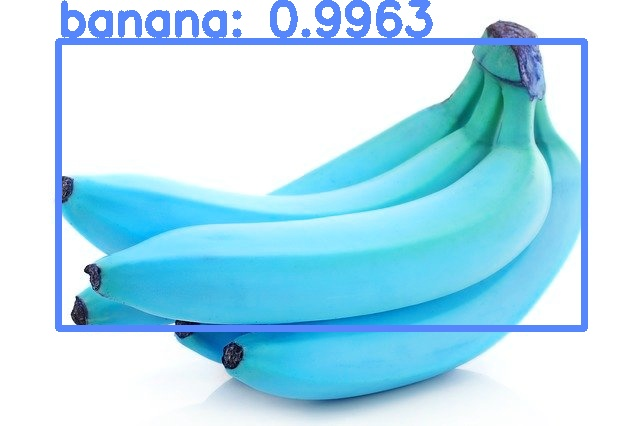
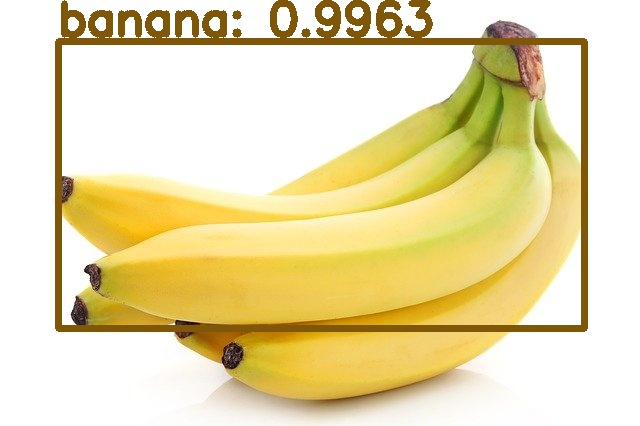
fix color error

diff --git a/templates/predict.html b/templates/predict.html
@@ -90,6 +90,7 @@
       <div class="col-sm">
         <span class="border border-primary">
           <img src="{{ url_for('static', filename = user_image)}}" alt="User Image" width="500" height="600" class="img-thumbnail">
+          <!-- <img src="./static/images/ouput/{{user_image}}" alt="User Image" width="500" height="600" class="img-thumbnail"> -->
         </span>
       </div>
 

diff --git a/app.py b/app.py
@@ -114,7 +114,7 @@ def predict():
                 print('YOLO v3 took {:.5f} seconds'.format(end - start))
                 np.random.seed(42)
                 # randint(low, high=None, size=None, dtype='l')
-                colours = np.random.randint(0, 255, size=(len(labels), 3), dtype='uint8')
+                colors = np.random.randint(0, 255, size=(len(labels), 3))
                 
                 # Check point
                 
@@ -163,7 +163,7 @@ def predict():
                         x_min, y_min = bounding_boxes[i][0], bounding_boxes[i][1]
                         box_width, box_height = bounding_boxes[i][2], bounding_boxes[i][3]
                 
-                        colour_box_current = [int(j) for j in colours[class_numbers[i]]]
+                        colour_box_current = [int(j) for j in colors[class_numbers[i]]]
                 
                         cv2.rectangle(image_input, (x_min, y_min), (x_min + box_width, y_min + box_height),
                                         colour_box_current, 5)
@@ -173,15 +173,16 @@ def predict():
                 
                         cv2.putText(image_input, text_box_current, (x_min, y_min - 7), cv2.FONT_HERSHEY_SIMPLEX,
                                     1.5, colour_box_current, 5)
-                plt.rcParams['figure.figsize'] = (10.0, 10.0)
-                image_output = cv2.cvtColor(image_input, cv2.COLOR_BGR2RGB)
-                # plt.imshow(cv2.cvtColor(image_input, cv2.COLOR_BGR2RGB))       
-                cv2.imwrite('./static/images/output/' + filename , image_output)
+                # plt.rcParams['figure.figsize'] = (10.0, 10.0)
+                # image_output = cv2.cvtColor(image_input, cv2.COLOR_BGR2RGB)
+                # cv2.imshow(image_output)     
+                cv2.imwrite('./static/images/output/' + filename , image_input)
                 # plt.show()
                 #plt.savefig('static/images/plot.jpg')
                 
                 
                 return render_template('predict.html', products = list(set(objects)), user_image = 'images/output/' + filename)
+                # return render_template('predict.html', products = list(set(objects)), user_image = filename)
                 
         except Exception as e:
             return "Unable to read the file. Please check if the file extension is correct."
